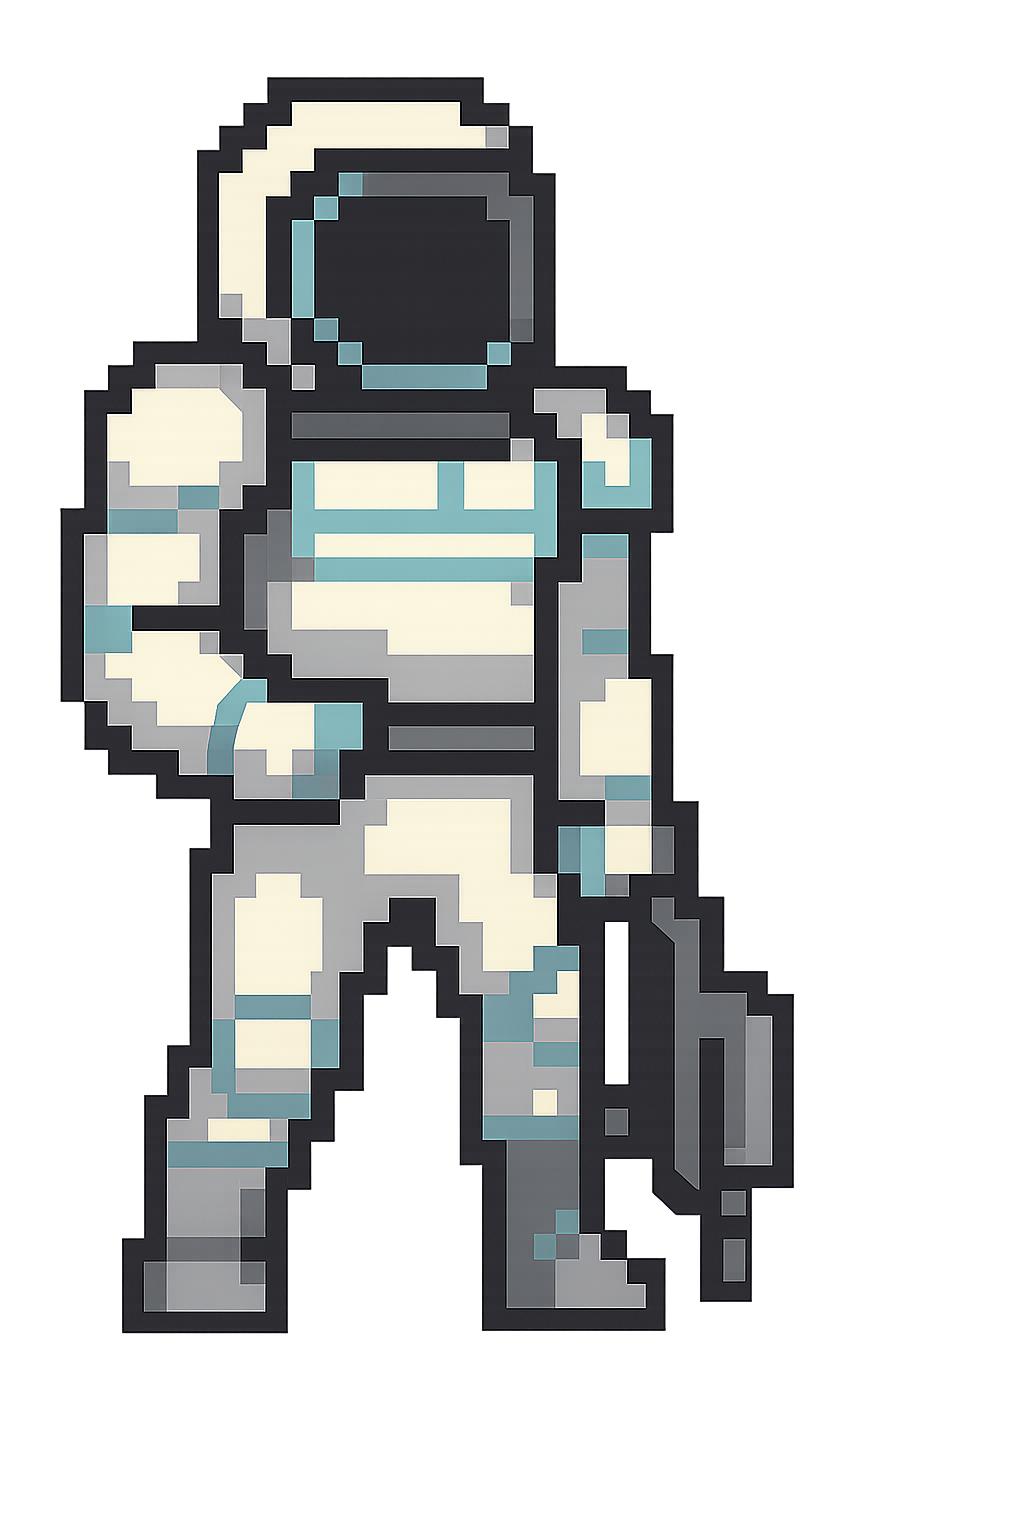
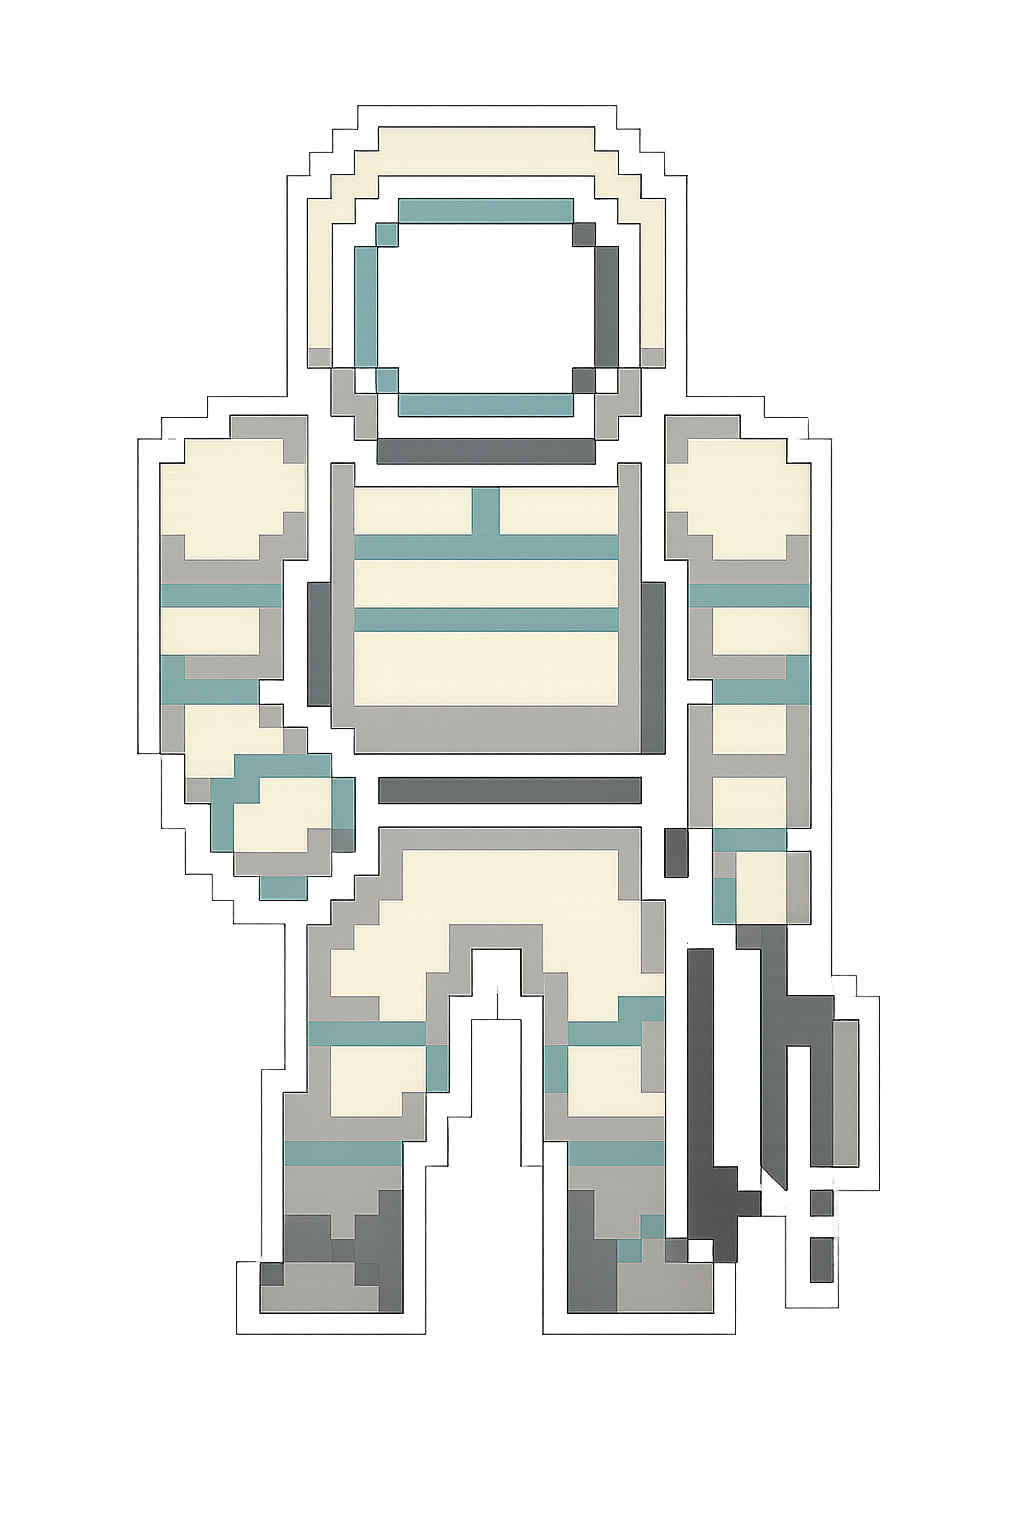
Added boss image

diff --git a/main2.py b/main2.py
@@ -167,6 +167,7 @@ class Player(pygame.sprite.Sprite):
                     self.velocity.y = 0
                     self.jumping = False
 
+
         # Boundary check     # AI
         if self.rect.left < 0:
             self.rect.left = 0
@@ -573,8 +574,8 @@ class Enemy(pygame.sprite.Sprite):
 class Boss(pygame.sprite.Sprite):
     def __init__(self, x, y):
         super().__init__()
-        self.image = pygame.Surface((80, 110), pygame.SRCALPHA)
-        self._draw_boss()
+        self.image = pygame.image.load("boss_chilling.png")
+        self.image = pygame.transform.scale(self.image, (STAND_WIDTH*3, STAND_HEIGHT*3))
         self.rect = self.image.get_rect(midbottom=(x, y))
         self.velocity = pygame.math.Vector2(0, 0)
         self.health = 300
@@ -592,41 +593,6 @@ class Boss(pygame.sprite.Sprite):
         self.player = player
         self.bullet_group = bullet_group
 
-    def _draw_boss(self):
-        # Draw improved astronaut body
-        pygame.draw.rect(self.image, (220, 220, 220), (20, 40, 40, 50))  # Body
-        pygame.draw.rect(self.image, (180, 180, 180), (20, 40, 40, 50), 2)  # Outline
-
-        # Draw armor plates
-        pygame.draw.rect(self.image, (100, 100, 150), (15, 30, 50, 15))
-        pygame.draw.rect(self.image, (80, 80, 130), (15, 30, 50, 15), 1)
-
-        # Draw helmet with visor
-        pygame.draw.circle(self.image, (230, 230, 250), (40, 25), 22)  # Helmet
-        pygame.draw.circle(self.image, (200, 200, 220), (40, 25), 22, 2)  # Helmet outline
-
-        # Visor with reflection
-        pygame.draw.rect(self.image, (100, 150, 220), (20, 10, 40, 20))
-        pygame.draw.rect(self.image, (70, 120, 200), (20, 10, 40, 20), 1)
-        pygame.draw.ellipse(self.image, (180, 220, 255), (45, 12, 10, 8))
-
-        # Evil glowing eyes
-        pygame.draw.circle(self.image, (255, 80, 80), (30, 20), 6)
-        pygame.draw.circle(self.image, (255, 180, 100), (30, 20), 3)
-        pygame.draw.circle(self.image, (255, 80, 80), (50, 20), 6)
-        pygame.draw.circle(self.image, (255, 180, 100), (50, 20), 3)
-
-        # Backpack with thrusters
-        pygame.draw.rect(self.image, (80, 80, 100), (10, 45, 20, 35))
-        pygame.draw.rect(self.image, (60, 60, 80), (10, 45, 20, 35), 1)
-
-        # Thrusters
-        pygame.draw.rect(self.image, (180, 100, 80), (12, 75, 6, 15))
-        pygame.draw.rect(self.image, (180, 100, 80), (22, 75, 6, 15))
-
-        # Energy weapon
-        pygame.draw.rect(self.image, (180, 80, 220), (55, 50, 20, 10))
-        pygame.draw.rect(self.image, (150, 60, 200), (55, 50, 20, 10), 1)
 
 
 
